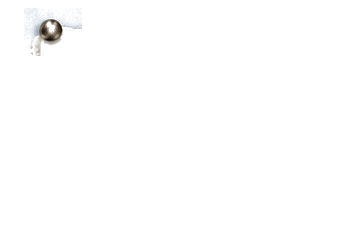
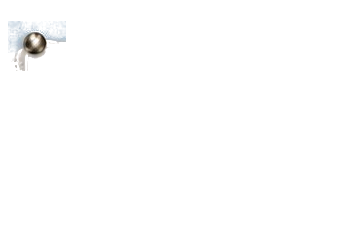
Cover the blank card with the screenshot and move the pin to its corner
The blank card underneath was showing as a beige rectangle round the
screenshot, which none of the other projects have. The screenshot fills it
now, 302x177 against the card's 306x181, so about two pixels of paper show
anywhere - enough for the edge to read as paper, not as a second card.

The pin moves to the screenshot's top-left corner, where the pins are on the
other three. That meant taking the printed one off the sheet after all: it is
rebuilt row by row from the paper either side of it at the same height, which
keeps the wall and the stack's edge running through unbroken - blurring
across the gap smears those bands and a flat fill shows as a patch.

The pin that goes back on top is cut with a closed matte. Cutting it by
darkness alone had punched a hole through the middle, because the highlight
on the ball is brighter than the paper around it.

Outside the printed card and that band the sheet is byte for byte what it
was.

Changed region(s): [[0.0294, 0.0574, 0.2647, 0.2869]]

diff --git a/index.html b/index.html
@@ -999,9 +999,9 @@ const PROJECTS = [
    /* squared up to the paper's own cut, which leans 1.4deg, and centred on
       it rather than on the sheet. The pin is a piece of its own here so the
       screenshot passes under it instead of across it. */
-   card:{x: 650, y: 617, w: 278, h: 158, ang: -0.8},
+   card:{x: 640, y: 618, w: 302, h: 177, ang: -0.8},
    pin: null, overImg:"assets/work/pin-cuelens.png",
-   label:{x: 657, y: 772, w: 238, h: 82, padTop: 12},
+   label:{x: 657, y: 789, w: 238, h: 82, padTop: 12},
    title:"CueLens", desc:"AI-powered interface review<br>for conflicting visual cues."},
 
   {id:"magnusmap", laceImg:"assets/work/lace-magnusmap.png", cardImg:"assets/work/card-magnusmap.jpg", href:"https://aashvigeddam.github.io/magnus-map/",
